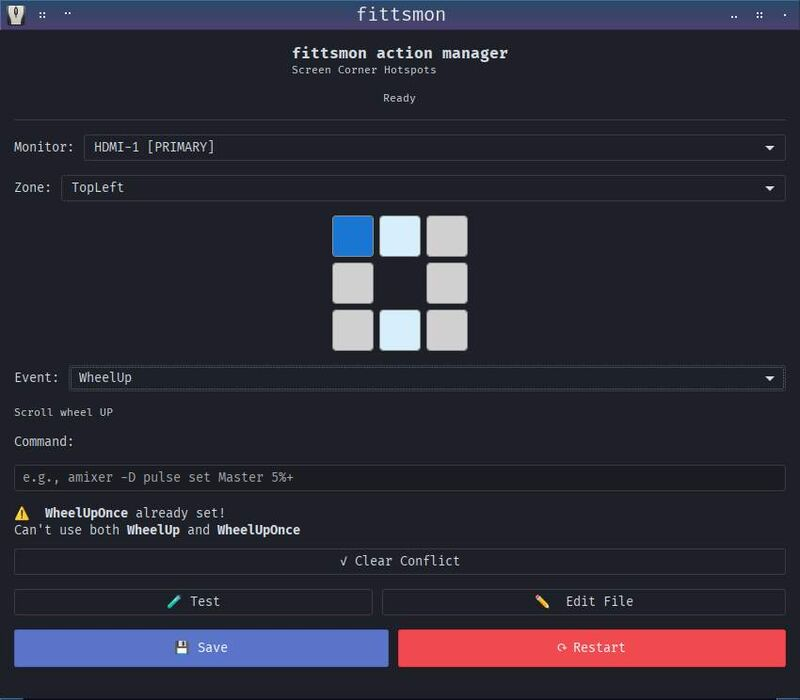
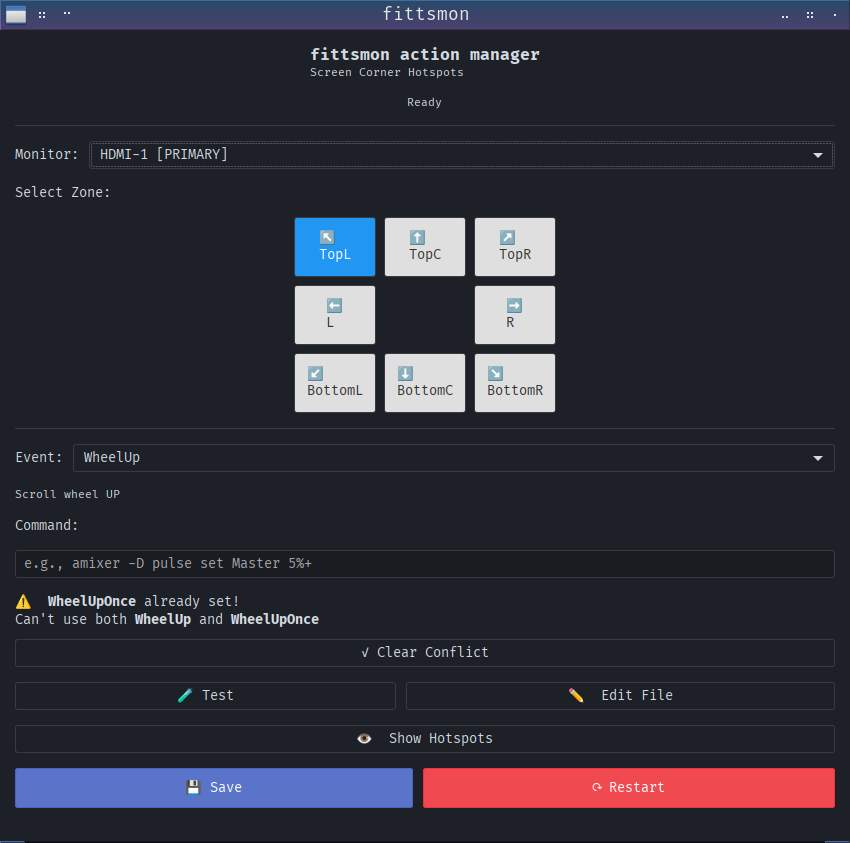
upload preview overview hotcorner info

diff --git a/README.md b/README.md
@@ -1,4 +1,7 @@
 ![Menu preview](images/menu-800.jpg)
+
+![Overview](images/overview.jpg){width 550 pix}
+
 # fittsmon-gui
 
 Lightweight GTK3 GUI to configure `fittsmon` screen-corner hotspots.
